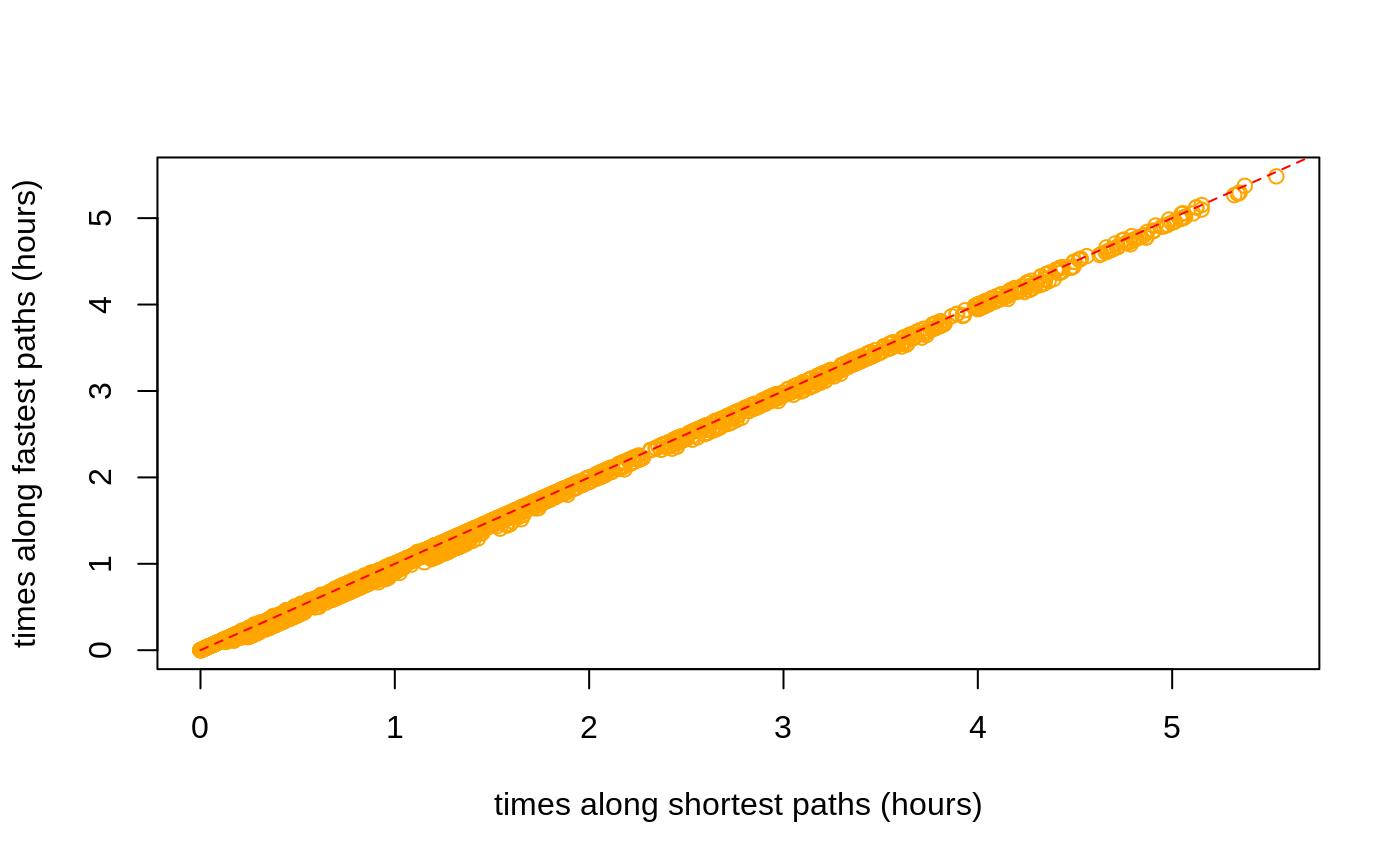
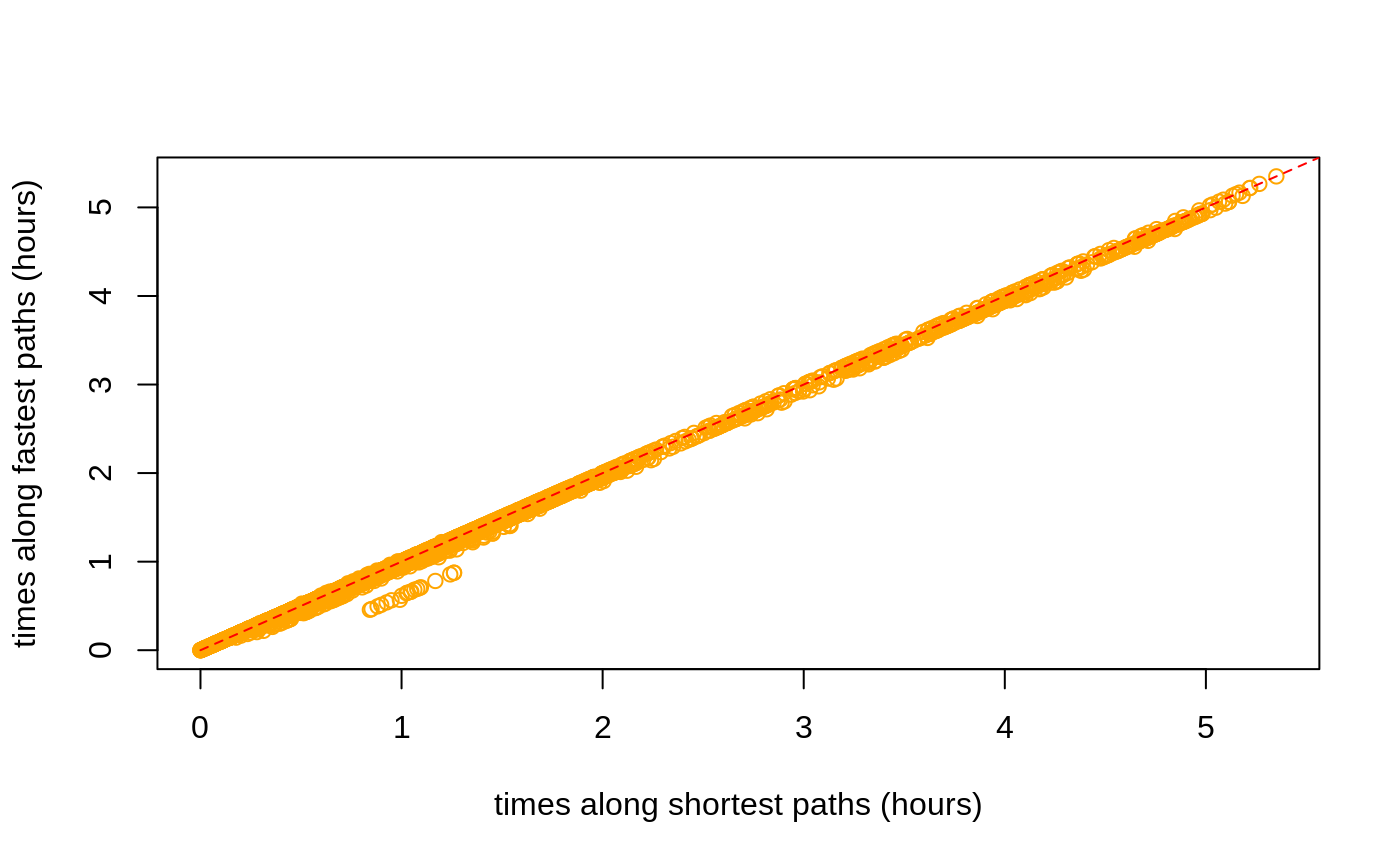
Built site for dodgr: 0.2.5.20@b30d650

diff --git a/articles/dodgr.html b/articles/dodgr.html
@@ -336,7 +336,7 @@
 <p>The <code>dodgr</code> packages includes a function to select a random connected portion of graph including a specified number of vertices. This function is used in the <a href="https://atfutures.github.io/dodgr/reference/compare_heaps.html"><code><a href="../reference/compare_heaps.html">compare_heaps()</a></code></a> function described below, but is also useful for general statistical analyses of large graphs which may otherwise take too long to compute.</p>
 <div class="sourceCode" id="cb58"><pre class="sourceCode r"><code class="sourceCode r"><a class="sourceLine" id="cb58-1" data-line-number="1">graph_sub &lt;-<span class="st"> </span><span class="kw"><a href="../reference/dodgr_sample.html">dodgr_sample</a></span> (graph, <span class="dt">nverts =</span> <span class="dv">100</span>)</a>
 <a class="sourceLine" id="cb58-2" data-line-number="2"><span class="kw"><a href="https://rdrr.io/r/base/nrow.html">nrow</a></span> (graph_sub)</a></code></pre></div>
-<pre><code>## [1] 199</code></pre>
+<pre><code>## [1] 197</code></pre>
 <p>The random sample has around twice as many edges as vertices, in accordance with the statistics calculated above.</p>
 <div class="sourceCode" id="cb60"><pre class="sourceCode r"><code class="sourceCode r"><a class="sourceLine" id="cb60-1" data-line-number="1"><span class="kw"><a href="https://rdrr.io/r/base/nrow.html">nrow</a></span> (<span class="kw"><a href="../reference/dodgr_vertices.html">dodgr_vertices</a></span> (graph_sub))</a></code></pre></div>
 <pre><code>## [1] 100</code></pre>
@@ -415,31 +415,31 @@
 <pre><code>## Loading required namespace: rbenchmark</code></pre>
 <pre><code>## Loading required namespace: igraph</code></pre>
 <pre><code>##                                                                                   test
-## 6       d &lt;- dodgr_dists(graph_contracted, from = from_id, to = to_id, heap = "BHeap")
-## 11        d &lt;- dodgr_dists(graph_contracted, from = from_id, to = to_id, heap = "set")
 ## 7       d &lt;- dodgr_dists(graph_contracted, from = from_id, to = to_id, heap = "FHeap")
+## 11        d &lt;- dodgr_dists(graph_contracted, from = from_id, to = to_id, heap = "set")
+## 6       d &lt;- dodgr_dists(graph_contracted, from = from_id, to = to_id, heap = "BHeap")
 ## 8     d &lt;- dodgr_dists(graph_contracted, from = from_id, to = to_id, heap = "TriHeap")
 ## 9  d &lt;- dodgr_dists(graph_contracted, from = from_id, to = to_id, heap = "TriHeapExt")
 ## 10     d &lt;- dodgr_dists(graph_contracted, from = from_id, to = to_id, heap = "Heap23")
 ## 1                  d &lt;- dodgr_dists(graph, from = from_id, to = to_id, heap = "BHeap")
 ## 12                  d &lt;- igraph::distances(igr, v = from_id, to = to_id, mode = "out")
 ## 2                  d &lt;- dodgr_dists(graph, from = from_id, to = to_id, heap = "FHeap")
-## 3                d &lt;- dodgr_dists(graph, from = from_id, to = to_id, heap = "TriHeap")
 ## 5                 d &lt;- dodgr_dists(graph, from = from_id, to = to_id, heap = "Heap23")
+## 3                d &lt;- dodgr_dists(graph, from = from_id, to = to_id, heap = "TriHeap")
 ## 4             d &lt;- dodgr_dists(graph, from = from_id, to = to_id, heap = "TriHeapExt")
 ##    replications elapsed relative user.self sys.self user.child sys.child
-## 6             1   0.003    1.000     0.004        0          0         0
-## 11            1   0.003    1.000     0.004        0          0         0
-## 7             1   0.004    1.333     0.005        0          0         0
-## 8             1   0.004    1.333     0.005        0          0         0
-## 9             1   0.004    1.333     0.004        0          0         0
-## 10            1   0.004    1.333     0.006        0          0         0
-## 1             1   0.011    3.667     0.017        0          0         0
-## 12            1   0.015    5.000     0.015        0          0         0
-## 2             1   0.017    5.667     0.027        0          0         0
-## 3             1   0.019    6.333     0.033        0          0         0
-## 5             1   0.019    6.333     0.032        0          0         0
-## 4             1   0.021    7.000     0.021        0          0         0</code></pre>
+## 7             1   0.004     1.00     0.006    0.000          0         0
+## 11            1   0.004     1.00     0.005    0.000          0         0
+## 6             1   0.005     1.25     0.005    0.000          0         0
+## 8             1   0.005     1.25     0.007    0.000          0         0
+## 9             1   0.006     1.50     0.006    0.000          0         0
+## 10            1   0.006     1.50     0.007    0.000          0         0
+## 1             1   0.012     3.00     0.018    0.001          0         0
+## 12            1   0.014     3.50     0.014    0.000          0         0
+## 2             1   0.019     4.75     0.030    0.000          0         0
+## 5             1   0.020     5.00     0.033    0.000          0         0
+## 3             1   0.021     5.25     0.033    0.000          0         0
+## 4             1   0.022     5.50     0.023    0.000          0         0</code></pre>
 <p>The key column of that <code>data.frame</code> is <code>relative</code>, which quantifies the relative performance of each test in relation to the best which is given a score of 1. <code>dodgr</code> using the default <code>heap = "BHeap"</code>, which is a binary heap priority queue, performs faster than <a href="https://igraph.org"><code>igraph</code></a> <span class="citation">(Csardi and Nepusz 2006)</span> for these graphs. Different kind of graphs will perform differently with different priority queue structures, and this function enables users to empirically discern the optimal heap for their kind of graph.</p>
 <p>Note, however, that this is not an entirely fair comparison, because <code>dodgr</code> calculates dual-weighted distances, whereas <a href="https://igraph.org"><code>igraph</code></a>—and indeed all other <strong>R</strong> packages—only directly calculate distances based on a single set of weights. Implementing dual-weighted routing in these cases requires explicitly re-tracing all paths and summing the second set of weights along each path. A time comparison in that case would be very strongly in favour of <code>dodgr</code>. Moreover, <code>dodgr</code> can convert graphs to contracted form through removing redundant vertices, as detailed in the following section. Doing so greatly improves performance with respect to <a href="https://igraph.org"><code>igraph</code></a>.</p>
 <p>For those wishing to do explicit comparisons themselves, the following code generates the <a href="https://igraph.org"><code>igraph</code></a> equivalent of <a href="https://atfutures.github.io/dodgr/reference/dodgr_distances.html"><code><a href="../reference/dodgr_distances.html">dodgr_distances()</a></code></a>, although of course for single-weighted graphs only:</p>
@@ -470,11 +470,11 @@
 <a class="sourceLine" id="cb86-5" data-line-number="5">                       d2 &lt;-<span class="st"> </span><span class="kw"><a href="../reference/dodgr_dists.html">dodgr_dists</a></span> (graph, <span class="dt">from =</span> from, <span class="dt">to =</span> to),</a>
 <a class="sourceLine" id="cb86-6" data-line-number="6">                       <span class="dt">replications =</span> <span class="dv">2</span>)</a></code></pre></div>
 <pre><code>##                                             test replications elapsed
-## 2 d2 &lt;- dodgr_dists(graph, from = from, to = to)            2   0.044
-## 1   d2 &lt;- dodgr_dists(grc, from = from, to = to)            2   0.008
+## 2 d2 &lt;- dodgr_dists(graph, from = from, to = to)            2   0.046
+## 1   d2 &lt;- dodgr_dists(grc, from = from, to = to)            2   0.009
 ##   relative user.self sys.self user.child sys.child
-## 2      5.5     0.065        0          0         0
-## 1      1.0     0.010        0          0         0</code></pre>
+## 2    5.111     0.066        0          0         0
+## 1    1.000     0.011        0          0         0</code></pre>
 <p>And contracting the graph has a similar effect of speeding up pairwise routing between these 100 points. All routing algorithms scale non-linearly with size, and relative improvements in efficiency will be even greater for larger graphs.</p>
 <div id="routing-on-contracted-graphs" class="section level2">
 <h2 class="hasAnchor">
@@ -486,11 +486,11 @@
 <pre><code>## [1] 672</code></pre>
 <div class="sourceCode" id="cb90"><pre class="sourceCode r"><code class="sourceCode r"><a class="sourceLine" id="cb90-1" data-line-number="1">verts &lt;-<span class="st"> </span><span class="kw"><a href="https://rdrr.io/r/base/sample.html">sample</a></span> (<span class="kw"><a href="../reference/dodgr_vertices.html">dodgr_vertices</a></span> (graph)<span class="op">$</span>id, <span class="dt">size =</span> <span class="dv">100</span>)</a>
 <a class="sourceLine" id="cb90-2" data-line-number="2"><span class="kw"><a href="https://rdrr.io/r/utils/head.html">head</a></span> (verts) <span class="co"># a character vector</span></a></code></pre></div>
-<pre><code>## [1] "4337842215" "4035136505" "3921525057" "571423838"  "1398748035"
-## [6] "4474520509"</code></pre>
+<pre><code>## [1] "2398958045" "4474520386" "1161117679" "339318493"  "977490123" 
+## [6] "1204772726"</code></pre>
 <div class="sourceCode" id="cb92"><pre class="sourceCode r"><code class="sourceCode r"><a class="sourceLine" id="cb92-1" data-line-number="1">grc &lt;-<span class="st"> </span><span class="kw"><a href="../reference/dodgr_contract_graph.html">dodgr_contract_graph</a></span> (graph, verts)</a>
 <a class="sourceLine" id="cb92-2" data-line-number="2"><span class="kw"><a href="https://rdrr.io/r/base/nrow.html">nrow</a></span> (grc)</a></code></pre></div>
-<pre><code>## [1] 852</code></pre>
+<pre><code>## [1] 856</code></pre>
 <p>Retaining the nominated vertices yields a graph with considerably more edges than the fully contracted graph excluding these vertices. The <a href="https://atfutures.github.io/dodgr/reference/dodgr_distances.html"><code><a href="../reference/dodgr_distances.html">dodgr_distances()</a></code></a> function can be applied to the latter graph to obtain accurate distances precisely routed between these points, yet using the speed advantages of graph contraction.</p>
 </div>
 </div>
@@ -531,24 +531,38 @@
 <pre><code>## [1] 10</code></pre>
 <p>The result (<code>dp</code>) is a list of 10 items, each of which contains 5 vectors. An example is,</p>
 <div class="sourceCode" id="cb99"><pre class="sourceCode r"><code class="sourceCode r"><a class="sourceLine" id="cb99-1" data-line-number="1">dp [[<span class="dv">1</span>]] [[<span class="dv">1</span>]]</a></code></pre></div>
-<pre><code>##  [1] "3921522978" "5351564643" "3921523011" "5351564644" "3921522979"
-##  [6] "3921523009" "3921523007" "3921523006" "3921523005" "3921523003"
-## [11] "3921523002" "3921523001" "3921523000" "3921523004" "3921522999"
-## [16] "3921522997" "3921522998" "3921522996" "3921522995" "3921522994"
-## [21] "3921522993" "3921523008" "3921522992" "3921522974" "3921522991"
-## [26] "3921522990" "3921522989" "3921522987" "1204772895" "1204772726"
-## [31] "3921523906" "3921523912" "3921523907"</code></pre>
+<pre><code>##   [1] "339932419"  "339318479"  "339318478"  "339318477"  "339318476" 
+##   [6] "339318473"  "339318471"  "339318470"  "2636414337" "339318467" 
+##  [11] "2636414331" "2636414338" "339059754"  "977478675"  "1676740773"
+##  [16] "4474520824" "245631133"  "339059758"  "977478643"  "4474520825"
+##  [21] "2627477681" "2627477680" "2627477677" "2627477679" "3456932070"
+##  [26] "2627477678" "2627477682" "339574320"  "2398957885" "2398957883"
+##  [31] "286632901"  "1148815150" "676875132"  "2398957865" "286632900" 
+##  [36] "1148814896" "338908589"  "2398957843" "338904455"  "3697938024"
+##  [41] "3697938023" "3697938021" "3697938022" "3697938335" "3697938334"
+##  [46] "3697938333" "3697938338" "3697938337" "3697938336" "3697938331"
+##  [51] "3697938330" "3697938329" "3697938332" "3697938328" "3697938327"
+##  [56] "3697938326" "3697938325" "3697937571" "3697937610" "3697937615"
+##  [61] "3697937614" "3697937613" "3697937611" "3697937612" "3697937616"
+##  [66] "3697937609" "3697937608" "3697937607" "1376769110" "1376768828"
+##  [71] "1376768464" "1376768862" "1376768398" "1376768975" "1376768614"
+##  [76] "1376769209" "1376768918" "1376768559" "6410121124" "2717241302"
+##  [81] "2717241300" "2717241331" "2717241317" "2717241339" "2717241332"
+##  [86] "2717241309" "2717241321" "2717241306" "2717241323" "2717241312"
+##  [91] "1376768738" "1376768369" "1376768946" "1376768586" "1560930407"
+##  [96] "1376768478" "1376769039" "1376768690" "1376768324" "1376768985"
+## [101] "1376768626" "339574829"  "339574828"  "6228103649" "6228103648"</code></pre>
 <p>For spatial graphs, the coordinates of these paths can be obtained by extracting the vertices with <code><a href="../reference/dodgr_vertices.html">dodgr_vertices()</a></code> and matching the vertex IDs:</p>
 <div class="sourceCode" id="cb101"><pre class="sourceCode r"><code class="sourceCode r"><a class="sourceLine" id="cb101-1" data-line-number="1">verts &lt;-<span class="st"> </span><span class="kw"><a href="../reference/dodgr_vertices.html">dodgr_vertices</a></span> (graph)</a>
 <a class="sourceLine" id="cb101-2" data-line-number="2">path1 &lt;-<span class="st"> </span>verts [<span class="kw"><a href="https://rdrr.io/r/base/match.html">match</a></span> (dp [[<span class="dv">1</span>]] [[<span class="dv">1</span>]], verts<span class="op">$</span>id), ]</a>
 <a class="sourceLine" id="cb101-3" data-line-number="3"><span class="kw"><a href="https://rdrr.io/r/utils/head.html">head</a></span> (path1)</a></code></pre></div>
-<pre><code>##              id        x        y component    n
-## 5130 3921522978 76.43609 15.34649         2 2534
-## 5128 5351564643 76.43632 15.34640         2 2533
-## 5126 3921523011 76.43659 15.34627         2 2532
-## 5124 5351564644 76.43672 15.34627         2 2531
-## 5122 3921522979 76.43682 15.34633         2 2530
-## 5120 3921523009 76.43698 15.34652         2 2529</code></pre>
+<pre><code>##             id        x        y component    n
+## 4888 339932419 76.46874 15.33605         1 2423
+## 4350 339318479 76.46844 15.33614         1 2170
+## 4348 339318478 76.46838 15.33608         1 2169
+## 4346 339318477 76.46813 15.33601         1 2168
+## 4344 339318476 76.46769 15.33598         1 2167
+## 4342 339318473 76.46740 15.33591         1 2166</code></pre>
 <p>Paths calculated on contracted graphs will of course have fewer vertices than those calculated on full graphs.</p>
 </div>
 <div id="aggregated-flows" class="section level1">
@@ -592,7 +606,7 @@
 <p>Most flows are zero because they have only been calculated between very few points in the graph.</p>
 <div class="sourceCode" id="cb106"><pre class="sourceCode r"><code class="sourceCode r"><a class="sourceLine" id="cb106-1" data-line-number="1"><span class="kw"><a href="https://rdrr.io/r/base/summary.html">summary</a></span> (graph_f<span class="op">$</span>flow)</a></code></pre></div>
 <pre><code>##    Min. 1st Qu.  Median    Mean 3rd Qu.    Max. 
-##   0.000   0.000   0.000   2.849   0.000  51.852</code></pre>
+##    0.00    0.00    0.00    3.56    0.00   77.28</code></pre>
 </div>
 <div id="flow-dispersal" class="section level2">
 <h2 class="hasAnchor">
@@ -602,7 +616,7 @@
 <a class="sourceLine" id="cb108-2" data-line-number="2">graph_f &lt;-<span class="st"> </span><span class="kw"><a href="../reference/dodgr_flows_disperse.html">dodgr_flows_disperse</a></span> (graph, <span class="dt">from =</span> from, <span class="dt">dens =</span> dens)</a>
 <a class="sourceLine" id="cb108-3" data-line-number="3"><span class="kw"><a href="https://rdrr.io/r/base/summary.html">summary</a></span> (graph_f<span class="op">$</span>flow)</a></code></pre></div>
 <pre><code>##      Min.   1st Qu.    Median      Mean   3rd Qu.      Max. 
-## 0.0000000 0.0000000 0.0004297 0.0016742 0.0024850 0.0229825</code></pre>
+## 0.0000000 0.0000000 0.0001381 0.0016742 0.0016109 0.2376286</code></pre>
 </div>
 <div id="merging-directed-flows" class="section level2">
 <h2 class="hasAnchor">
@@ -612,7 +626,7 @@
 <p>Resultant graphs produced by <a href="https://atfutures.github.io/dodgr/reference/merge_directed_graph.html"><code><a href="../reference/merge_directed_graph.html">merge_directed_graph()</a></code></a> only include those edges having non-zero flows, and so:</p>
 <div class="sourceCode" id="cb111"><pre class="sourceCode r"><code class="sourceCode r"><a class="sourceLine" id="cb111-1" data-line-number="1"><span class="kw"><a href="https://rdrr.io/r/base/nrow.html">nrow</a></span> (graph_f); <span class="kw"><a href="https://rdrr.io/r/base/nrow.html">nrow</a></span> (graph_undir) <span class="co"># the latter is much smaller</span></a></code></pre></div>
 <pre><code>## [1] 5973</code></pre>
-<pre><code>## [1] 2879</code></pre>
+<pre><code>## [1] 2944</code></pre>
 <p>The resultant graph can readily be merged with the original graph to regain the original data on vertex coordinates through</p>
 <div class="sourceCode" id="cb114"><pre class="sourceCode r"><code class="sourceCode r"><a class="sourceLine" id="cb114-1" data-line-number="1">graph &lt;-<span class="st"> </span>graph [graph_undir<span class="op">$</span>edge_id, ]</a>
 <a class="sourceLine" id="cb114-2" data-line-number="2">graph<span class="op">$</span>flow &lt;-<span class="st"> </span>graph_undir<span class="op">$</span>flow</a></code></pre></div>

diff --git a/articles/times.html b/articles/times.html
@@ -226,11 +226,11 @@
 <p><img src="times_files/figure-html/shortest-vs-fastest-1.png" width="700"></p>
 <p>The average distance between the two (in metres) is:</p>
 <div class="sourceCode" id="cb9"><pre class="sourceCode r"><code class="sourceCode r"><a class="sourceLine" id="cb9-1" data-line-number="1"><span class="kw"><a href="https://rdrr.io/r/base/mean.html">mean</a></span> (<span class="kw"><a href="https://rdrr.io/r/base/MathFun.html">abs</a></span> (d_time <span class="op">-</span><span class="st"> </span>d_dist), <span class="dt">na.rm =</span> <span class="ot">TRUE</span>)</a></code></pre></div>
-<pre><code>## [1] 47.79707</code></pre>
+<pre><code>## [1] 51.19462</code></pre>
 <p>The plot reveals that shortest distances are indeed somewhat shorter than distances along fastest paths, but also that some fastest paths are actually shorter than shortest paths:</p>
 <div class="sourceCode" id="cb11"><pre class="sourceCode r"><code class="sourceCode r"><a class="sourceLine" id="cb11-1" data-line-number="1">index &lt;-<span class="st"> </span><span class="kw"><a href="https://rdrr.io/r/base/which.html">which</a></span> (<span class="op">!</span><span class="kw"><a href="https://rdrr.io/r/base/NA.html">is.na</a></span> (d_time) <span class="op">&amp;</span><span class="st"> </span><span class="op">!</span><span class="kw"><a href="https://rdrr.io/r/base/NA.html">is.na</a></span> (d_dist))</a>
 <a class="sourceLine" id="cb11-2" data-line-number="2"><span class="kw"><a href="https://rdrr.io/r/base/length.html">length</a></span> (<span class="kw"><a href="https://rdrr.io/r/base/which.html">which</a></span> (d_time [index] <span class="op">&lt;</span><span class="st"> </span>d_dist [index])) <span class="op">/</span><span class="st"> </span><span class="kw"><a href="https://rdrr.io/r/base/length.html">length</a></span> (index)</a></code></pre></div>
-<pre><code>## [1] 0.02153285</code></pre>
+<pre><code>## [1] 0.01158229</code></pre>
 <p>While <code>dodgr</code> and indeed all routing engines attempt to maximally reconcile differences between fastest and shortest routes, there nevertheless remain important discrepancies. Foremost among these, and the primary reason why some fastest routes may in fact be shorter than shortest routes, is that fastest routes allocate preferences for different kinds of way based both on the <code>value</code> column in the <code>weighting_profiles$weighting_profiles</code> table illustrated above, and on the actual maximum speed of a given edge, which itself may be a combination of maximum speeds as specified in OSM itself, maximum speeds from the <code>weighting_profiles$weighting_profiles</code> table, or values specific to a given surface. The result is that some unique combination of maximum speeds along a network may lead to <em>fastest</em> routes being preferentially directed along a path that is actually shorter than the direct shortest path which is calculated independent of maximum speed values.</p>
 <p>Such discrepancies are important in understanding differences in routes <em>times</em> calculated along shortest versus fastest paths. These times can be calculated (in seconds) with the <a href="https://atfutures.github.io/dodgr/reference/dodgr_times.html"><code><a href="../reference/dodgr_times.html">dodgr_times()</a></code></a> function:</p>
 <div class="sourceCode" id="cb13"><pre class="sourceCode r"><code class="sourceCode r"><a class="sourceLine" id="cb13-1" data-line-number="1">t_dist &lt;-<span class="st"> </span><span class="kw"><a href="../reference/dodgr_times.html">dodgr_times</a></span> (graph, <span class="dt">from =</span> from, <span class="dt">to =</span> to, <span class="dt">shortest =</span> <span class="ot">TRUE</span>) <span class="co"># default</span></a>
@@ -241,11 +241,11 @@
 <a class="sourceLine" id="cb13-6" data-line-number="6"><span class="kw"><a href="https://rdrr.io/r/graphics/lines.html">lines</a></span> (<span class="dv">0</span><span class="op">:</span><span class="dv">100</span>, <span class="dv">0</span><span class="op">:</span><span class="dv">100</span>, <span class="dt">col =</span> <span class="st">"red"</span>, <span class="dt">lty =</span> <span class="dv">2</span>)</a></code></pre></div>
 <p><img src="times_files/figure-html/shortest-vs-fastest-times-1.png" width="700"></p>
 <div class="sourceCode" id="cb14"><pre class="sourceCode r"><code class="sourceCode r"><a class="sourceLine" id="cb14-1" data-line-number="1"><span class="kw"><a href="https://rdrr.io/r/base/mean.html">mean</a></span> (<span class="kw"><a href="https://rdrr.io/r/base/MathFun.html">abs</a></span> (t_time <span class="op">-</span><span class="st"> </span>t_dist), <span class="dt">na.rm =</span> <span class="ot">TRUE</span>)</a></code></pre></div>
-<pre><code>## [1] 53.24945</code></pre>
+<pre><code>## [1] 49.72011</code></pre>
 <p>As above, times along fastest paths are generally less than times along shortest paths, although there are again a few exceptions:</p>
 <div class="sourceCode" id="cb16"><pre class="sourceCode r"><code class="sourceCode r"><a class="sourceLine" id="cb16-1" data-line-number="1">index &lt;-<span class="st"> </span><span class="kw"><a href="https://rdrr.io/r/base/which.html">which</a></span> (<span class="op">!</span><span class="kw"><a href="https://rdrr.io/r/base/NA.html">is.na</a></span> (t_time) <span class="op">&amp;</span><span class="st"> </span><span class="op">!</span><span class="kw"><a href="https://rdrr.io/r/base/NA.html">is.na</a></span> (t_dist))</a>
 <a class="sourceLine" id="cb16-2" data-line-number="2"><span class="kw"><a href="https://rdrr.io/r/base/length.html">length</a></span> (<span class="kw"><a href="https://rdrr.io/r/base/which.html">which</a></span> (t_dist [index] <span class="op">&lt;</span><span class="st"> </span>t_time [index])) <span class="op">/</span><span class="st"> </span><span class="kw"><a href="https://rdrr.io/r/base/length.html">length</a></span> (index)</a></code></pre></div>
-<pre><code>## [1] 0.01405109</code></pre>
+<pre><code>## [1] 0.01643938</code></pre>
 <p>These results demonstrate how the combination of the <a href="https://atfutures.github.io/dodgr/reference/dodgr_distances.html"><code><a href="../reference/dodgr_distances.html">dodgr_distances()</a></code></a> and <a href="https://atfutures.github.io/dodgr/reference/dodgr_times.html"><code><a href="../reference/dodgr_times.html">dodgr_times()</a></code></a> functions enable calculation of both distances and times along both shortest and fastest paths.</p>
 <div id="time-based-paths-and-flow-aggregation" class="section level2">
 <h2 class="hasAnchor">

diff --git a/reference/compare_heaps.html b/reference/compare_heaps.html
@@ -160,27 +160,27 @@ fair comparisons, run only once or re-start the current R session.</p>
 #&gt; 11        d &lt;- dodgr_dists(graph_contracted, from = from_id, to = to_id, heap = "set")
 #&gt; 7       d &lt;- dodgr_dists(graph_contracted, from = from_id, to = to_id, heap = "FHeap")
 #&gt; 8     d &lt;- dodgr_dists(graph_contracted, from = from_id, to = to_id, heap = "TriHeap")
-#&gt; 9  d &lt;- dodgr_dists(graph_contracted, from = from_id, to = to_id, heap = "TriHeapExt")
 #&gt; 10     d &lt;- dodgr_dists(graph_contracted, from = from_id, to = to_id, heap = "Heap23")
+#&gt; 9  d &lt;- dodgr_dists(graph_contracted, from = from_id, to = to_id, heap = "TriHeapExt")
 #&gt; 1                  d &lt;- dodgr_dists(graph, from = from_id, to = to_id, heap = "BHeap")
 #&gt; 12                  d &lt;- igraph::distances(igr, v = from_id, to = to_id, mode = "out")
 #&gt; 2                  d &lt;- dodgr_dists(graph, from = from_id, to = to_id, heap = "FHeap")
-#&gt; 3                d &lt;- dodgr_dists(graph, from = from_id, to = to_id, heap = "TriHeap")
 #&gt; 5                 d &lt;- dodgr_dists(graph, from = from_id, to = to_id, heap = "Heap23")
+#&gt; 3                d &lt;- dodgr_dists(graph, from = from_id, to = to_id, heap = "TriHeap")
 #&gt; 4             d &lt;- dodgr_dists(graph, from = from_id, to = to_id, heap = "TriHeapExt")
 #&gt;    replications elapsed relative user.self sys.self user.child sys.child
-#&gt; 6             1   0.005      1.0     0.006        0          0         0
-#&gt; 11            1   0.005      1.0     0.006        0          0         0
-#&gt; 7             1   0.006      1.2     0.008        0          0         0
-#&gt; 8             1   0.006      1.2     0.008        0          0         0
-#&gt; 9             1   0.006      1.2     0.006        0          0         0
-#&gt; 10            1   0.006      1.2     0.007        0          0         0
-#&gt; 1             1   0.015      3.0     0.021        0          0         0
-#&gt; 12            1   0.016      3.2     0.016        0          0         0
-#&gt; 2             1   0.020      4.0     0.032        0          0         0
-#&gt; 3             1   0.022      4.4     0.037        0          0         0
-#&gt; 5             1   0.022      4.4     0.036        0          0         0
-#&gt; 4             1   0.025      5.0     0.024        0          0         0</div></pre>
+#&gt; 6             1   0.006    1.000     0.008        0          0         0
+#&gt; 11            1   0.006    1.000     0.008        0          0         0
+#&gt; 7             1   0.008    1.333     0.012        0          0         0
+#&gt; 8             1   0.008    1.333     0.013        0          0         0
+#&gt; 10            1   0.009    1.500     0.013        0          0         0
+#&gt; 9             1   0.010    1.667     0.009        0          0         0
+#&gt; 1             1   0.018    3.000     0.028        0          0         0
+#&gt; 12            1   0.024    4.000     0.024        0          0         0
+#&gt; 2             1   0.027    4.500     0.046        0          0         0
+#&gt; 5             1   0.031    5.167     0.054        0          0         0
+#&gt; 3             1   0.032    5.333     0.055        0          0         0
+#&gt; 4             1   0.036    6.000     0.037        0          0         0</div></pre>
   </div>
   <div class="col-md-3 hidden-xs hidden-sm" id="sidebar">
     <h2>Contents</h2>

diff --git a/reference/dodgr_sample.html b/reference/dodgr_sample.html
@@ -143,7 +143,7 @@ the requested <code>nverts</code>.</p>
     <h2 class="hasAnchor" id="examples"><a class="anchor" href="#examples"></a>Examples</h2>
     <pre class="examples"><div class='input'><span class='no'>graph</span> <span class='kw'>&lt;-</span> <span class='fu'><a href='weight_streetnet.html'>weight_streetnet</a></span> (<span class='no'>hampi</span>)
 <span class='fu'><a href='https://rdrr.io/r/base/nrow.html'>nrow</a></span> (<span class='no'>graph</span>) <span class='co'># 5,742</span></div><div class='output co'>#&gt; [1] 5973</div><div class='input'><span class='no'>graph</span> <span class='kw'>&lt;-</span> <span class='fu'>dodgr_sample</span> (<span class='no'>graph</span>, <span class='kw'>nverts</span> <span class='kw'>=</span> <span class='fl'>200</span>)
-<span class='fu'><a href='https://rdrr.io/r/base/nrow.html'>nrow</a></span> (<span class='no'>graph</span>) <span class='co'># generally around 400 edges</span></div><div class='output co'>#&gt; [1] 399</div><div class='input'><span class='fu'><a href='https://rdrr.io/r/base/nrow.html'>nrow</a></span> (<span class='fu'><a href='dodgr_vertices.html'>dodgr_vertices</a></span> (<span class='no'>graph</span>)) <span class='co'># 200</span></div><div class='output co'>#&gt; [1] 200</div></pre>
+<span class='fu'><a href='https://rdrr.io/r/base/nrow.html'>nrow</a></span> (<span class='no'>graph</span>) <span class='co'># generally around 400 edges</span></div><div class='output co'>#&gt; [1] 397</div><div class='input'><span class='fu'><a href='https://rdrr.io/r/base/nrow.html'>nrow</a></span> (<span class='fu'><a href='dodgr_vertices.html'>dodgr_vertices</a></span> (<span class='no'>graph</span>)) <span class='co'># 200</span></div><div class='output co'>#&gt; [1] 200</div></pre>
   </div>
   <div class="col-md-3 hidden-xs hidden-sm" id="sidebar">
     <h2>Contents</h2>

diff --git a/reference/dodgr_flows_aggregate.html b/reference/dodgr_flows_aggregate.html
@@ -186,7 +186,7 @@ flows are aggregated. To remove any such effect, set <code>tol = 0</code>.</p></
 <span class='co'># undirected flows on an equivalent undirected graph with:</span>
 <span class='no'>graph_undir</span> <span class='kw'>&lt;-</span> <span class='fu'><a href='merge_directed_graph.html'>merge_directed_graph</a></span> (<span class='no'>graph</span>)
 <span class='co'># This graph will only include those edges having non-zero flows, and so:</span>
-<span class='fu'><a href='https://rdrr.io/r/base/nrow.html'>nrow</a></span> (<span class='no'>graph</span>); <span class='fu'><a href='https://rdrr.io/r/base/nrow.html'>nrow</a></span> (<span class='no'>graph_undir</span>) <span class='co'># the latter is much smaller</span></div><div class='output co'>#&gt; [1] 5973</div><div class='output co'>#&gt; [1] 1179</div><div class='input'>
+<span class='fu'><a href='https://rdrr.io/r/base/nrow.html'>nrow</a></span> (<span class='no'>graph</span>); <span class='fu'><a href='https://rdrr.io/r/base/nrow.html'>nrow</a></span> (<span class='no'>graph_undir</span>) <span class='co'># the latter is much smaller</span></div><div class='output co'>#&gt; [1] 5973</div><div class='output co'>#&gt; [1] 835</div><div class='input'>
 <span class='co'># The following code can be used to convert the resultant graph to an `sf`</span>
 <span class='co'># object suitable for plotting</span>
 <span class='kw'>if</span> (<span class='fl'>FALSE</span>) {

diff --git a/reference/dodgr_flows_si.html b/reference/dodgr_flows_si.html
@@ -211,7 +211,7 @@ user back on to the corresponding columns of the matrix of 'k' values.</p>
 <span class='co'># undirected flows on an equivalent undirected graph with:</span>
 <span class='no'>graph_undir</span> <span class='kw'>&lt;-</span> <span class='fu'><a href='merge_directed_graph.html'>merge_directed_graph</a></span> (<span class='no'>graph</span>)
 <span class='co'># This graph will only include those edges having non-zero flows, and so:</span>
-<span class='fu'><a href='https://rdrr.io/r/base/nrow.html'>nrow</a></span> (<span class='no'>graph</span>); <span class='fu'><a href='https://rdrr.io/r/base/nrow.html'>nrow</a></span> (<span class='no'>graph_undir</span>) <span class='co'># the latter is much smaller</span></div><div class='output co'>#&gt; [1] 5973</div><div class='output co'>#&gt; [1] 753</div></pre>
+<span class='fu'><a href='https://rdrr.io/r/base/nrow.html'>nrow</a></span> (<span class='no'>graph</span>); <span class='fu'><a href='https://rdrr.io/r/base/nrow.html'>nrow</a></span> (<span class='no'>graph_undir</span>) <span class='co'># the latter is much smaller</span></div><div class='output co'>#&gt; [1] 5973</div><div class='output co'>#&gt; [1] 840</div></pre>
   </div>
   <div class="col-md-3 hidden-xs hidden-sm" id="sidebar">
     <h2>Contents</h2>

diff --git a/reference/index.html b/reference/index.html
@@ -183,6 +183,12 @@
           <p><code><a href="dodgr_flows_disperse.html">dodgr_flows_disperse()</a></code> </p>
         </td>
         <td><p>dodgr_flows_disperse</p></td>
+      </tr><tr>
+        
+        <td>
+          <p><code><a href="dodgr_flows_si.html">dodgr_flows_si()</a></code> </p>
+        </td>
+        <td><p>dodgr_flows_si</p></td>
       </tr>
     </tbody><tbody>
       <tr>
